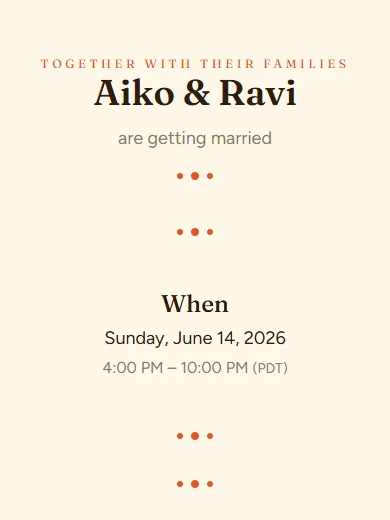
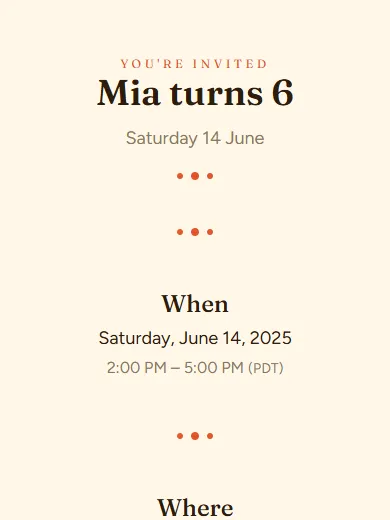
fix: Match every template thumbnail to its occasion

diff --git a/src/app/create/[occasion]/setup-wizard.tsx b/src/app/create/[occasion]/setup-wizard.tsx
@@ -243,11 +243,16 @@ const PREVIEW_SLUGS: ReadonlySet<string> = new Set([
 
 /**
  * Occasion-specific previews at public/templates/<slug>--<occasion>.webp for the
- * photo-hero v1 templates. Keys are a static allowlist: the occasion comes from
+ * v1 templates. Keys are a static allowlist: the occasion comes from
  * the route, so it is never interpolated into a URL unless it is listed here.
  */
 const OCCASION_PREVIEWS: ReadonlySet<string> = new Set([
-  ...["wedding", "engagement", "birthday", "baby-shower", "housewarming", "party"].flatMap((o) => [`classic--${o}`, `modern--${o}`]),
+  ...["wedding", "engagement", "birthday", "baby-shower", "housewarming", "party"].flatMap((o) => [
+    `classic--${o}`,
+    `modern--${o}`,
+    `minimal--${o}`,
+  ]),
+  ...["birthday", "party", "baby-shower", "housewarming"].map((o) => `confetti--${o}`),
   ...["wedding", "engagement", "baby-shower"].map((o) => `garden--${o}`),
   ...["wedding", "engagement"].map((o) => `heirloom--${o}`),
 ]);
